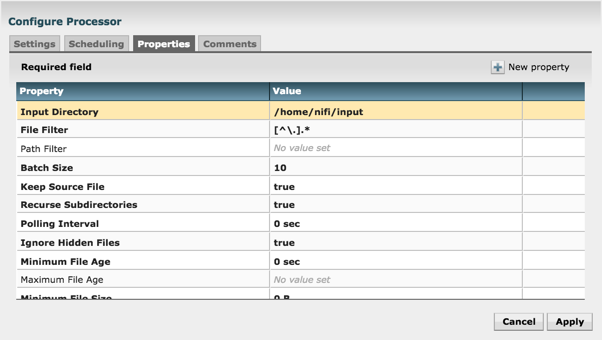
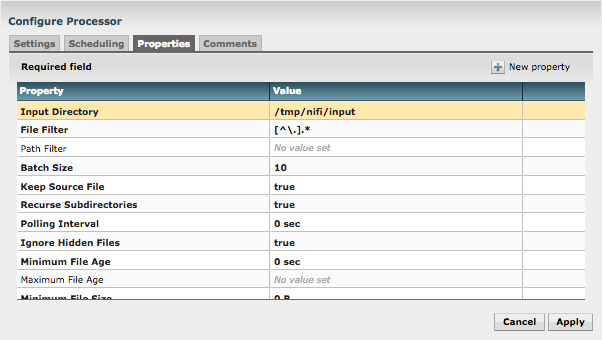
update lab 1
- added new images
- added new instructions for compatibility for local machine

diff --git a/tutorials/hortonworks/learning-ropes-apache-nifi-lab-series/learning-ropes-nifi-lab1.md b/tutorials/hortonworks/learning-ropes-apache-nifi-lab-series/learning-ropes-nifi-lab1.md
@@ -97,8 +97,8 @@ After extracting, filtering and converting the data, your new file, which contai
 
 | Parameter  | Value  |
 |---|---|
-| Input Directory  | /home/nifi/input  |
-| Output Directory  | /home/nifi/output/filtered_transitLoc_data  |
+| Input Directory  | /tmp/nifi/input  |
+| Output Directory  | /tmp/nifi/output/filtered_transitLoc_data  |
 | File Format  | JSON  |
 | Filter For  | id, time, lat, lon, speedKmHr, dirTag  |
 
@@ -150,7 +150,7 @@ Overview of Each Processor's Role in our DataFlow:
 
 - **MergeContent** merges a group of JSON FlowFiles together based on a number of FlowFiles and packages them into a single FlowFile.
 
-- **PutFile** writes the contents of the FlowFile to a desired directory on the local filesystem. 
+- **PutFile** writes the contents of the FlowFile to a desired directory on the local filesystem.
 
 
 Follow the step above to add these processors. You should obtain the image below:
@@ -183,17 +183,29 @@ If you would like to read more about configuring and connecting processors, refe
 
 1\. Download [trafficLocs_data_for_simulator.zip](/assets/learning-ropes-nifi-lab-series/trafficLocs_data_for_simulator.zip).
 
-If NiFi is on Sandbox, send the zip file to the sandbox with the command:
+### NiFi on Sandbox (Option 1)
+
+If **NiFi is on Sandbox**, SSH into the shell. Else move to the next section:
 
 ~~~bash
-scp -P 2222 ~/Downloads/trafficLocs_data_for_simulator.zip root@localhost:/home/nifi/input
+ssh root@127.0.0.1 -p 2222
 ~~~
 
-If NiFi is on local machine, create a new folder named `Documents/nifi/input` in the `/` directory with the command:
+Let's create a new `/tmp/nifi/input` directory, then send the zip file to the sandbox with the command:
 
 ~~~bash
-mkdir -p Documents/nifi/input
-mv ~/Downloads/trafficLocs_data_for_simulator.zip Documents/nifi/input
+mkdir -p /tmp/nifi/input
+exit
+scp -P 2222 ~/Downloads/trafficLocs_data_for_simulator.zip root@localhost:/tmp/nifi/input
+~~~
+
+### NiFi on Local Machine (Option 2)
+
+If **NiFi is on local machine**, create a new folder named `/tmp/nifi/input` in the `/` directory with the command:
+
+~~~bash
+mkdir -p /tmp/nifi/input
+cp ~/Downloads/trafficLocs_data_for_simulator.zip /tmp/nifi/input
 ~~~  
 
 Right click on the **GetFile** processor and click **configure** from dropown menu
@@ -206,7 +218,7 @@ Right click on the **GetFile** processor and click **configure** from dropown me
 
 | Property  | Value  |
 |---|---|
-| Input Directory  | `/home/nifi/input`  |
+| Input Directory  | `/tmp/nifi/input`  |
 | Keep Source File  | `true`  |
 
 ![getFile_config_property_tab_window](/assets/learning-ropes-nifi-lab-series/lab1-build-nifi-dataflow/getFile_config_property_tab_window.png)
@@ -334,7 +346,7 @@ Right click on the **GetFile** processor and click **configure** from dropown me
 
 | Property  | Value  |
 |---|---|
-| Filter_Attributes  | `${Direction_of_Travel:isEmpty():not():and(${Last_Time:isEmpty()not()}):and(${Latitude:isEmpty():not()}):and(${Longitude:isEmpty():not()}):and(${Vehicle_ID:isEmpty():not()}):and(${Vehicle_Speed:equals('0'):not()})}`  |
+| Filter_Attributes  | `${Direction_of_Travel:isEmpty():not():and(${Last_Time:isEmpty():not()}):and(${Latitude:isEmpty():not()}):and(${Longitude:isEmpty():not()}):and(${Vehicle_ID:isEmpty():not()}):and(${Vehicle_Speed:equals('0'):not()})}`  |
 
 ![routeOnAttribute_config_property_tab_window](/assets/learning-ropes-nifi-lab-series/lab1-build-nifi-dataflow/routeOnAttribute_config_property_tab_window.png)
 
@@ -373,9 +385,10 @@ Right click on the **GetFile** processor and click **configure** from dropown me
 |---|---|
 | Minimum Number of Entries  | 10  |
 | Maximum Number of Entries  | 15  |
-| Filename  | `Text`  |
+| Delimiter Strategy  | `Text`  |
 | Header  | `[`  |
 | Footer  | `]`  |
+| Demarcator | `,` |
 
 ![mergeContent_firstHalf_config_property_tab_window](/assets/learning-ropes-nifi-lab-series/lab1-build-nifi-dataflow/mergeContent_firstHalf_config_property_tab_window.png)
 
@@ -398,7 +411,7 @@ Right click on the **GetFile** processor and click **configure** from dropown me
 
 | Property  | Value  |
 |---|---|
-| Directory  | `/home/nifi/output/filtered_transitLoc_data`  |
+| Directory  | `/tmp/nifi/output/filtered_transitLoc_data`  |
 
 ![putFile_config_property_tab_window](/assets/learning-ropes-nifi-lab-series/lab1-build-nifi-dataflow/putFile_config_property_tab_window.png)
 
@@ -416,10 +429,10 @@ Right click on the **GetFile** processor and click **configure** from dropown me
 
 3\. To quickly see what the processors are doing and the information on their faces, right click on the graph, click the **refresh status** button ![refresh_nifi_iot](/assets/learning-ropes-nifi-lab-series/lab1-build-nifi-dataflow/refresh_nifi_iot.png)
 
-4\. To check that the data was written to a file, open your terminal. Make sure to SSH into your sandbox. Navigate to the directory you wrote for the PutFile processor. List the files and open one of the newly created files to view filtered transit output. In the tutorial our directory path is: `/home/nifi/output/filtered_transitLoc_data`.
+4\. To check that the data was written to a file, open your terminal. Make sure to SSH into your sandbox. Navigate to the directory you wrote for the PutFile processor. List the files and open one of the newly created files to view filtered transit output. In the tutorial our directory path is: `/tmp/nifi/output/filtered_transitLoc_data`.
 
 ~~~
-cd /home/nifi/output/filtered_transitLoc_data
+cd /tmp/nifi/output/filtered_transitLoc_data
 ls
 vi 22169558941607
 ~~~
